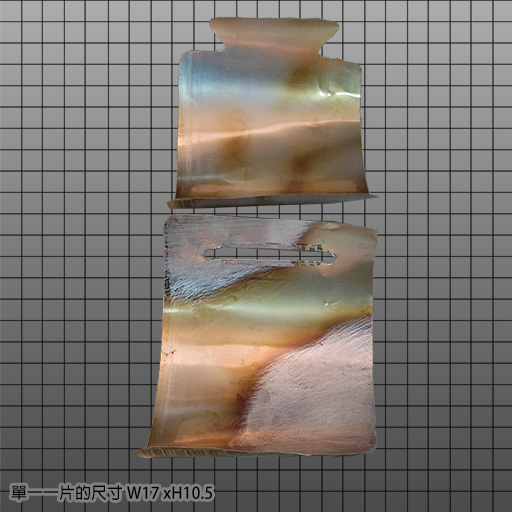
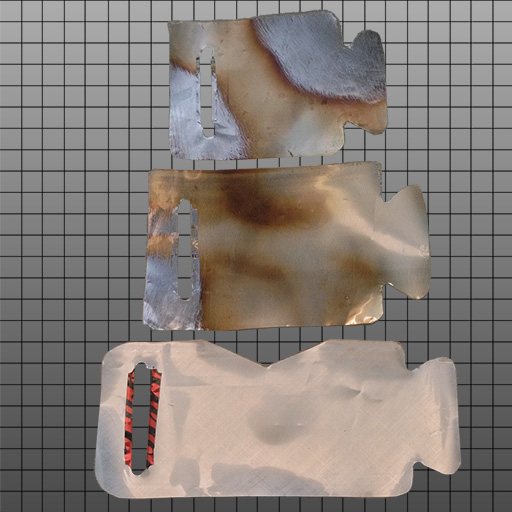
update windscreen

diff --git a/alcoholstove_windscreen.html b/alcoholstove_windscreen.html
@@ -49,7 +49,7 @@
 
 		<div class="box" align="left" data-section="小杯子用鋁罐擋風板">	
 			<h3>小杯子用鋁罐擋風板 <span class="bluebox tag">重量5g</span> <span class="greenbox tag">DIY</span></h3>
-			<p>將鋁罐直接剪下當作擋風板，適合搭配杯子、<a href="alcoholstove_current.html?goto=👍淘寶小島爐%20(防火棉酒精爐)">防火棉酒精爐</a>或<a href="alcoholstove_current.html?goto=伯朗240ML燈芯酒精爐">燈芯酒精爐</a>（火焰較溫和）、<a href="alcoholstove_stand.html?goto=捲收式不鏽鋼片爐架">捲收式鏽鋼片爐架</a>，整體更輕量與小巧。</p>
+			<p>將鋁罐直接剪下當作擋風板，適合搭配杯子、<a href="alcoholstove_current.html?goto=👍淘寶小島爐%20(防火棉酒精爐)">防火棉酒精爐</a>或<a href="alcoholstove_current.html?goto=伯朗240ML燈芯酒精爐">燈芯酒精爐</a>（火焰較溫和）、<a href="alcoholstove_stand.html?goto=捲收式不鏽鋼片爐架">捲收式鏽鋼片爐架</a>或<a href="alcoholstove_stand.html?goto=三角鍋架(小)">三角鍋架(小)</a>，整體更輕量與小巧。</p>
 			<p>不過因為包覆太密，不適合火力太強的爐子，容易一下子過度暴衝，加速燃料消耗。</p>
 			<p>可以直接收納進直徑8公分、高10公分的鈦杯中，順便增加原本杯蓋的密合度（原本杯蓋鬆鬆的）；或是搭配鋁箔碗底，直接收納在杯身外壁。</p>
 			<p>
@@ -61,8 +61,9 @@
 		
 		
 		<div class="box" align="left" data-section="大杯子用鋁罐擋風板">	
-			<h3>大杯子用鋁罐擋風板 <span class="bluebox tag">重量9g</span> <span class="greenbox tag">DIY</span></h3>
-			<p>將兩個魔爪鋁罐直接剪下當作擋風板，適合搭配大杯子。</p>
+			<h3>大杯子用鋁罐擋風板 <span class="bluebox tag">重量13g</span> <span class="greenbox tag">DIY</span></h3>
+			<p>將３個鋁罐罐壁直接剪下當作擋風板，適合搭配大杯子。其中一片中心剪一凹槽可以方便杯子手把露出。</p>
+			<p>大小不一單純因為不同罐體廢物利用與測試剪裁過多次，實際上可以做成一樣尺寸，只要圍起來的尺寸合適既可。</p>
 			<p>可以搭配鋁箔碗底，直接收納進直徑10公分、高11公分的鈦杯外壁。</p>
 			<p>
 				<img loading="lazy" class="stoveimg lazy-img" src="images/windscreen/small/04.jpg" width="512"/>
@@ -71,6 +72,7 @@
 				<img loading="lazy" class="stoveimg lazy-img" src="images/windscreen/small/04C.jpg" width="512"/>
 			</p>
 			<div class="yellowbox"><tipicon></tipicon>底下DIY的鋁箔碗底，增加了杯子與擋風板的空隙，方便取放杯子，且多一層防護避免倒酒精時洩漏、火焰太旺往地板上燒。</div>
+
 		</div>
 		<div align="center"><a href="#sectionIndex">△回到索引</a></div>
 
